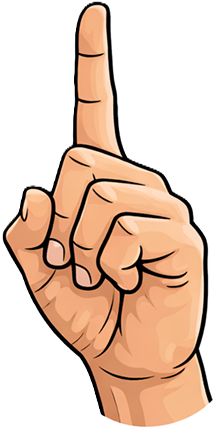
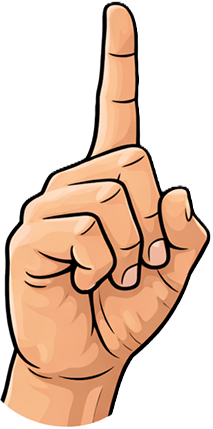
Final

diff --git a/lib/pages/ScorePage.dart b/lib/pages/ScorePage.dart
@@ -218,7 +218,7 @@ class _ScorePageState extends State<ScorePage> with SingleTickerProviderStateMix
                                       const Icon(Icons.auto_awesome, color: Color(0xFF0096FF), size: 20),
                                       const SizedBox(width: 8),
                                       Text(
-                                        "AI Analysis",
+                                        "การวิเคราะห์ด้วย AI",
                                         style: GoogleFonts.montserrat(
                                           fontSize: 16,
                                           fontWeight: FontWeight.w700,
@@ -288,16 +288,16 @@ class _ScorePageState extends State<ScorePage> with SingleTickerProviderStateMix
 
   String _generateFallbackFeedback() {
     if (widget.score > widget.highScore && widget.highScore > 0) {
-      return "Incredible! You just set a new personal record. Your cognitive speed and memory recall are showing significant improvement.";
+      return "ยอดเยี่ยมมาก! คุณเพิ่งทำสถิติใหม่ ความเร็วในการประมวลผลและความจำของคุณดีขึ้นอย่างเห็นได้ชัด";
     } else if (widget.score > 80) {
       if (widget.timeSpent < 30) {
-        return "Excellent performance! Both your accuracy and speed are top-notch today. Keep up the great work.";
+        return "ทำได้ดีมาก! ทั้งความแม่นยำและความเร็วของคุณอยู่ในระดับท็อปวันนี้ ทำต่อไปนะ";
       }
-      return "Great accuracy! To challenge yourself further, try to make your decisions a bit faster next time without losing precision.";
+      return "ความแม่นยำดีมาก! เพื่อท้าทายตัวเองเพิ่มเติม ลองพยายามตัดสินใจให้เร็วขึ้นอีกนิดในครั้งหน้าโดยไม่ลดความแม่นยำลง";
     } else if (widget.score > 50) {
-      return "Good job! You're making solid progress. Focus on recognizing patterns to boost your score and shave off a few seconds.";
+      return "ทำได้ดี! คุณกำลังก้าวหน้าอย่างมั่นคง มุ่งเน้นไปที่การจดจำรูปแบบเพื่อเพิ่มคะแนนและลดเวลาลงสองสามวินาที";
     } else {
-      return "A solid effort! Consistency is the key to training your brain. Regular practice will noticeably improve your recall speed.";
+      return "พยายามได้ดี! ความสม่ำเสมอคือกุญแจสำคัญในการฝึกสมองของคุณ การฝึกฝนเป็นประจำจะช่วยปรับปรุงความเร็วในการจดจำของคุณได้อย่างชัดเจน";
     }
   }
 }

diff --git a/lib/games/PerfectMatchPlaying.dart b/lib/games/PerfectMatchPlaying.dart
@@ -690,9 +690,13 @@ class _PerfectMatchPlayingState extends State<PerfectMatchPlaying>
                       ),
                       child: Padding(
                         padding: const EdgeInsets.all(12.0),
-                        child: Image.asset(
-                          _getIndividualHandImage(leftScreenGesture),
-                          fit: BoxFit.contain,
+                        child: Transform(
+                          alignment: Alignment.center,
+                          transform: Matrix4.rotationY(pi),
+                          child: Image.asset(
+                            _getIndividualHandImage(leftScreenGesture),
+                            fit: BoxFit.contain,
+                          ),
                         ),
                       ),
                     ),
